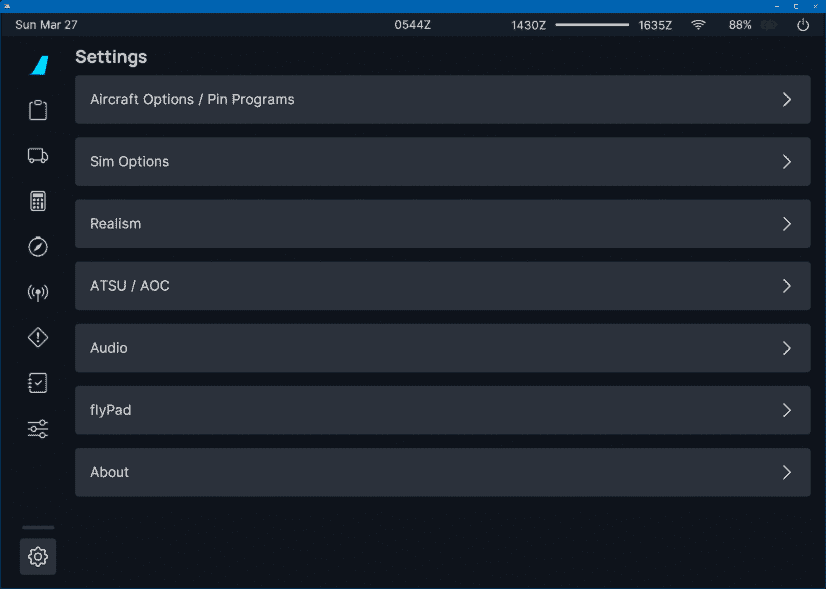
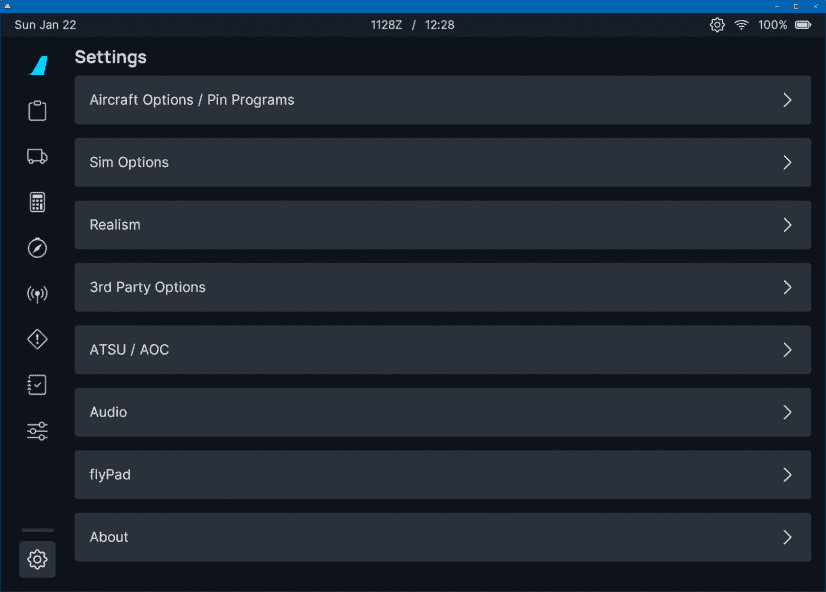
docs(efb): GSX Integration (#714)
* GSX Integration
- Added required content to pages
- Need to add pictures

diff --git a/docs/fbw-a32nx/feature-guides/flypados3/settings.md b/docs/fbw-a32nx/feature-guides/flypados3/settings.md
@@ -157,8 +157,8 @@ Settings for simulation aspects of the A32NX aircraft.
     - Please see the [Throttle Configuration Guide](throttle-calibration.md).
 
 ## Realism
-
 Settings for realism aspects of the A32NX aircraft.
+
 <div style="position: relative;">
     <img src="/fbw-a32nx/assets/flypados3/flypad-settings-realism.png" style="width: 100%; height: auto;" loading="lazy">
     <a href="../dashboard/">   <div class="imagemap" style="position: absolute; left: 1.7%; top:  6.9%; width: 5.8%; height: 7.0%;"><span class="imagemapname">Dashboard</span></div></a>
@@ -216,6 +216,38 @@ Settings for realism aspects of the A32NX aircraft.
         ![img_3.png](../../assets/flypados3/flypad-settings-realism-avatars.png){loading=lazy align=center width=49%}
         ![img_2.png](../../assets/flypados3/flypad-settings-realism-avatars2.png){loading=lazy align=center width=49%}
   
+
+## 3rd Party Options
+Settings for integrations with various 3rd party applications
+
+<div style="position: relative;">
+    <img src="/fbw-a32nx/assets/flypados3/flypad-settings-third-party-options.png" style="width: 100%; height: auto;" loading="lazy">
+    <a href="../dashboard/">   <div class="imagemap" style="position: absolute; left: 1.7%; top:  6.9%; width: 5.8%; height: 7.0%;"><span class="imagemapname">Dashboard</span></div></a>
+    <a href="../dispatch/">    <div class="imagemap" style="position: absolute; left: 1.7%; top: 14.1%; width: 5.8%; height: 7.0%;"><span class="imagemapname">Dispatch</span></div></a>
+    <a href="../ground/">      <div class="imagemap" style="position: absolute; left: 1.7%; top: 21.1%; width: 5.8%; height: 7.0%;"><span class="imagemapname">Ground</span></div></a>
+    <a href="../performance/"> <div class="imagemap" style="position: absolute; left: 1.7%; top: 28.3%; width: 5.8%; height: 7.0%;"><span class="imagemapname">Performance</span></div></a>
+    <a href="../charts/">      <div class="imagemap" style="position: absolute; left: 1.7%; top: 35.6%; width: 5.8%; height: 7.0%;"><span class="imagemapname">Navigation & Charts</span></div></a>
+    <a href="../online-atc/">  <div class="imagemap" style="position: absolute; left: 1.7%; top: 43.0%; width: 5.8%; height: 7.0%;"><span class="imagemapname">Online ATC</span></div></a>
+    <a href="../failures/">    <div class="imagemap" style="position: absolute; left: 1.7%; top: 50.1%; width: 5.8%; height: 7.0%;"><span class="imagemapname">Failures</span></div></a>
+    <a href="../checklists/">  <div class="imagemap" style="position: absolute; left: 1.7%; top: 57.3%; width: 5.8%; height: 7.0%;"><span class="imagemapname">Checklists</span></div></a>
+    <a href="../presets/">     <div class="imagemap" style="position: absolute; left: 1.7%; top: 64.7%; width: 5.8%; height: 7.0%;"><span class="imagemapname">Presets</span></div></a>
+    <a href="../settings/">    <div class="imagemap" style="position: absolute; left: 1.7%; top: 85.0%; width: 5.8%; height: 7.0%;"><span class="imagemapname">Settings</span></div></a>
+    <span class="imagesub">Click on the menu icons in this image to see other flyPad pages.</span>
+</div>
+
+!!! danger ""
+    This feature is only available in [experimental](../../support/exp.md)
+
+#### GSX Integration
+These options are seperate to provide you with the flexiblity to choose what to sync with GSX and what not to sync. 
+
+!!! warning ""
+    The aircraft comes with a GSX profile, this requires no extra action from yourself. However, it is worth mentioning due to modelling constraints, the aft cargo and passenger door have been disabled, as these cannot be opened. If you'd still like these visual indicators in GSX, feel free to re-enable them.
+
+- GSX Payload Sync:
+    - Enables to option to synchronise GSX and the aircraft's own payload management system.
+- GSX Fuel Sync:
+    - Enables the option to synchronise GSX and the aircraft's own fuel management system.
 ## ATSU/AOC
 
 Settings for integrations with various data and information sources.

diff --git a/docs/fbw-a32nx/feature-guides/flypados3/ground.md b/docs/fbw-a32nx/feature-guides/flypados3/ground.md
@@ -102,6 +102,27 @@ Set this setting to the desired duration of refueling. Either instant refueling 
 
 After starting the engines only "Instant" is available. 
 
+### GSX Integration
+
+!!! danger ""
+    This feature is only available in [experimental](../../support/exp.md)
+
+!!! warning ""
+    You must enable [Fuel Sync](settings.md#3rd-party-options)
+
+#### Caveats
+- GSX acts as a visual indicator, the actual fueling is managed by the aircraft's own systems. This allows you the freedom of [various fueling times](#realism-settings-for-fuel-time).
+
+#### Usage
+1. Fueling
+      - The "play" button is disabled until the fuel truck has arrived and the hose is connected
+      - Select `Request Fueling` from the GSX Menu
+      - Wait for the fuel truck to arrive and connect the fuel hose.
+      - Set the [fuel quantity](#fuel-and-de-fuel) that you desire and press the "play" button.
+      - You can witness outside as the fuel truck begins to re-fuel your aircraft
+2. De-fueling
+     - Due to limitations with GSX, this is not supported, disable [Fuel Sync](settings.md#3rd-party-options) temporarily, to defuel.
+
 ## Payload Page
 
 The Payload page allows setting up the payload of the aircraft, board and de-board passengers and load cargo. 
@@ -188,6 +209,32 @@ The current cabin and cargo area layout of the A32NX consists of:
     - Aft Baggage
     - Aft Bulk Loose
 
+### GSX Integration
+
+!!! danger ""
+    This feature is only available in [experimental](../../support/exp.md)
+
+!!! warning ""
+    You must enable [Payload Sync](settings.md#3rd-party-options) in order for this to function.
+
+#### Caveats
+- You won't witness passengers boarding the aircraft until physical passengers from GSX enter the aircraft. You'll notice this when you request boarding through the GSX menu but nothing appears to happen in the EFB just yet.
+- Due to limitations with events emitted by GSX, cargo/baggage loading is less granular and the aircraft own's weight systems will load in large chunks rather than much more fine grained steps.
+- The aircraft's own boarding sounds are disabled as GSX has it's own sound profile for boarding/deboarding.
+- Once boarding has started you can no longer, edit the fields in the payload screen
+
+#### Usage
+1. Boarding
+      - Load the aircraft as per normal following the instructions defined in, [Setting Up Payload](#setting-up-payload).
+      - Before proceeding, ensure you've set *everything*  to your preferences, this is a point of no return. 
+      - Select `Request Boarding` from the GSX Menu.
+      - The payload page will now enter a disabled state, where you can no longer modify anything until *after* deboarding has completed.
+      - Continue with your pre-flight setup and/or observe on the payload page as the aircraft is boarded with passengers and cargo.
+
+2. Deboarding
+      - Once you've arrived at the gate, as per normal, Select `Request De-Boarding` from the GSX Menu.
+      - Observe on the payload page the aircraft is deboarded and cargo removed.
+      - Once the deboarding is complete, the payload page should once again become editable.
 ## Pushback
 
 {--

diff --git a/docs/fbw-a32nx/support/exp.md b/docs/fbw-a32nx/support/exp.md
@@ -15,6 +15,11 @@ Currently experimental is geared toward testing the initial version of VNAV with
 
 ## Implemented Features for Testing
 
+### GSX Integration
+We are testing GSX's own systems integrating with the A32NX's own backend boarding and fueling system. See technical details in the respectinve [Github Pull Request #7695](https://github.com/flybywiresim/a32nx/pull/7695){target=new}.
+
+Documentation on usage and caveats can be found in the [FlypadOS3 Ground Documentation](../feature-guides/flypados3/ground.md)
+
 ### RMP Navigation Tuning
 
 We are testing the ability for the radio management panel to tune navigational aids. See technical details in the respective [GitHub Pull Request #7241](https://github.
